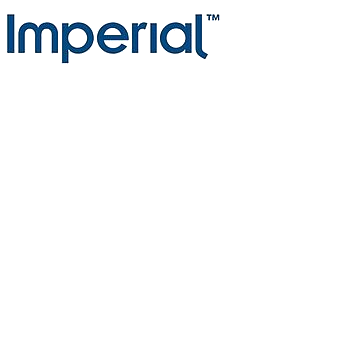
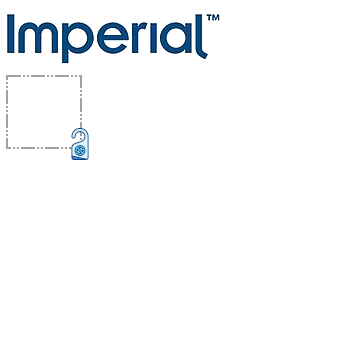
Silent Zone added

diff --git a/README.md b/README.md
@@ -30,3 +30,8 @@ This project contains multiple licenses:
 If you add third party assets in your map, do not forget to:
 1. Credit the author and license with the "tilesetCopyright" property present in the properties of each tilesets in the `map.json` file
 2. Add the license text in LICENSE.assets
+
+###Credits
+
+1. Icon Set used from Stockio.com https://www.stockio.com/free-icon/conner-icon-set-do-not-disturb. 
+   Exclusive Free Icon by Stockio.com. Free for personal and commercial use. Not for sale or redistribution.
